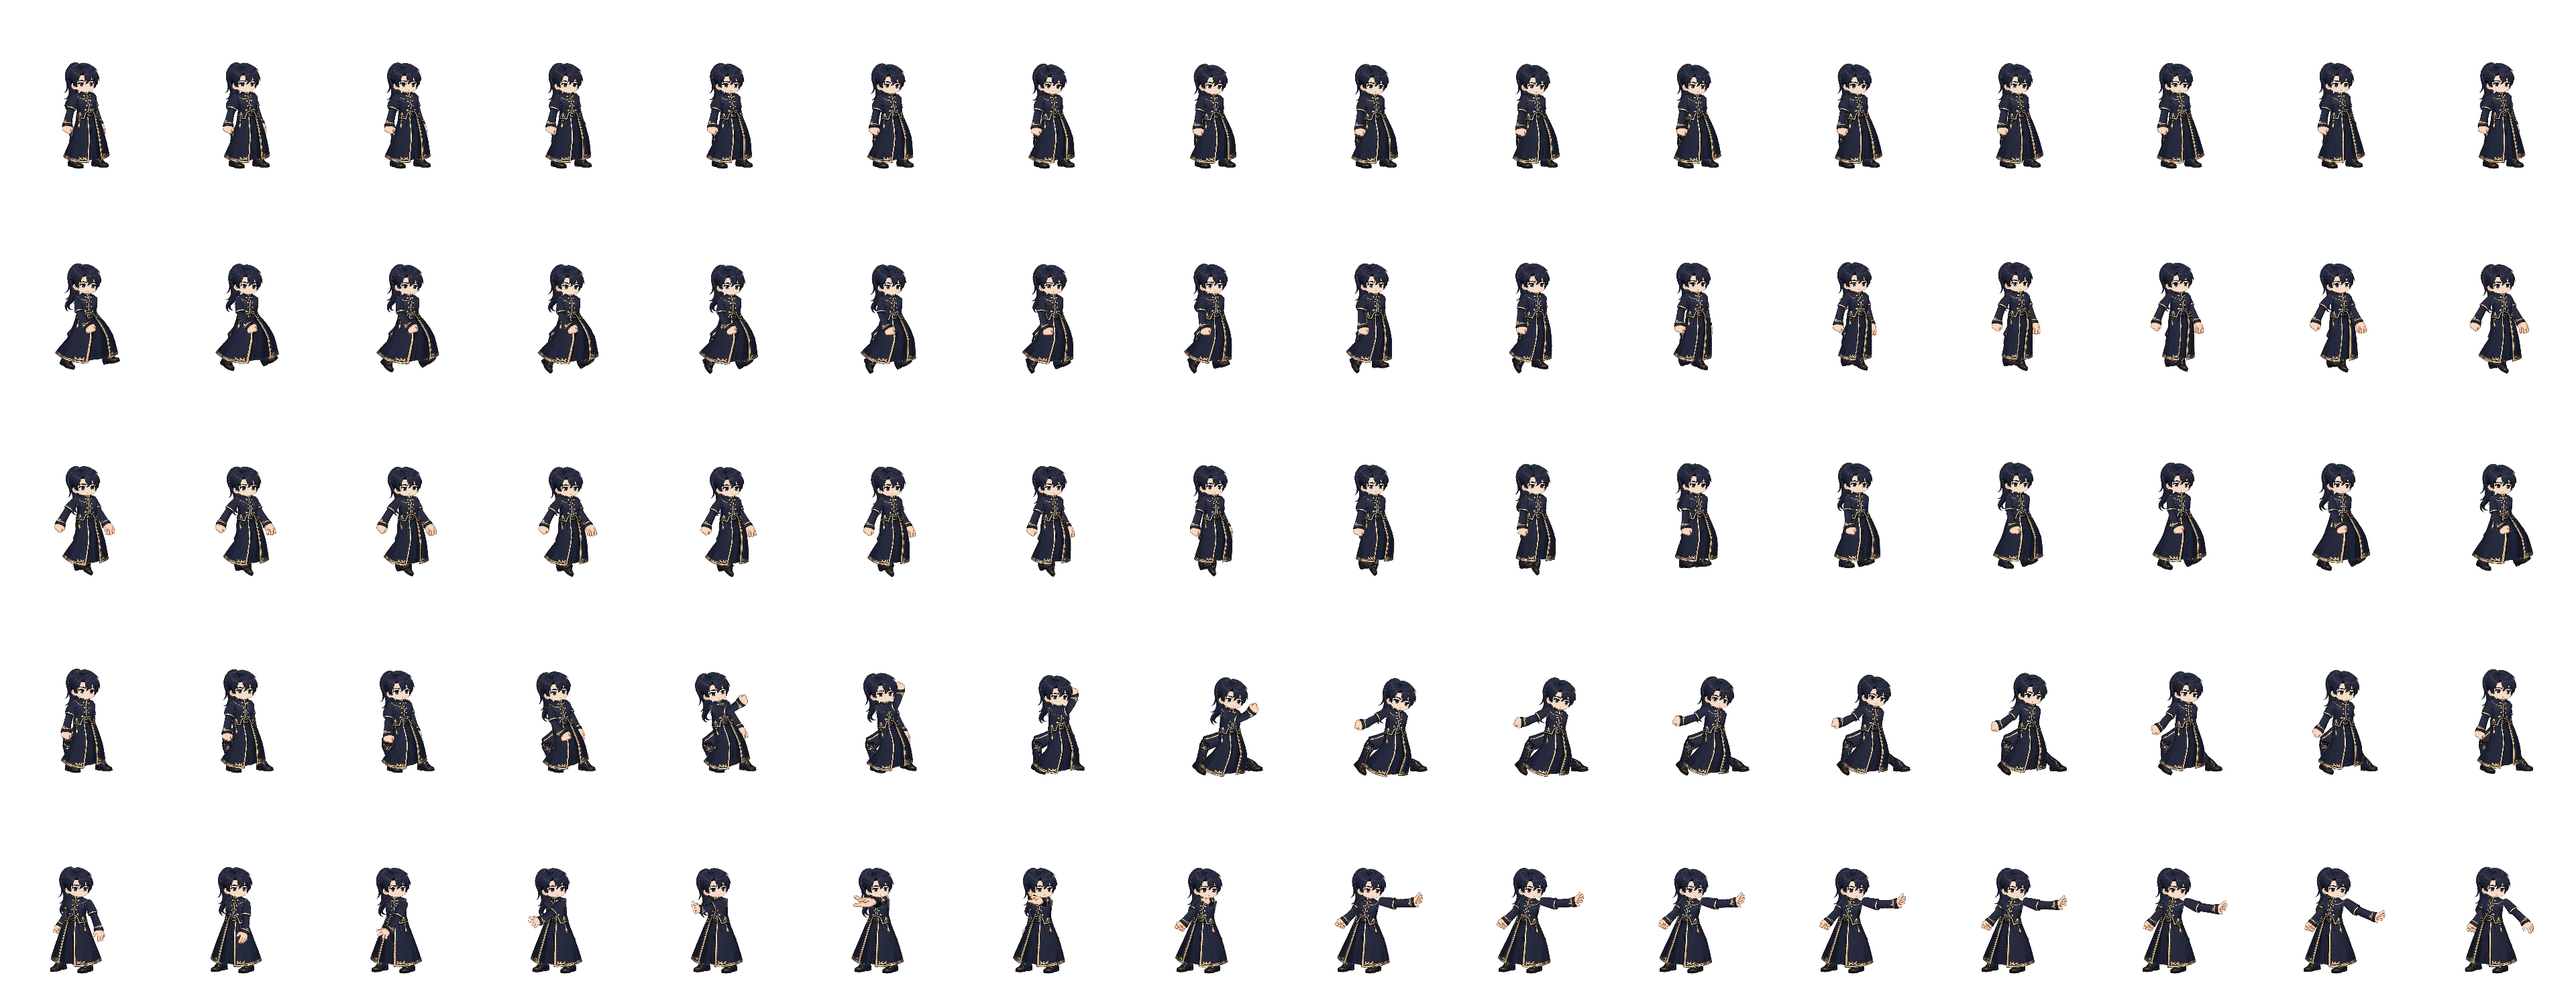
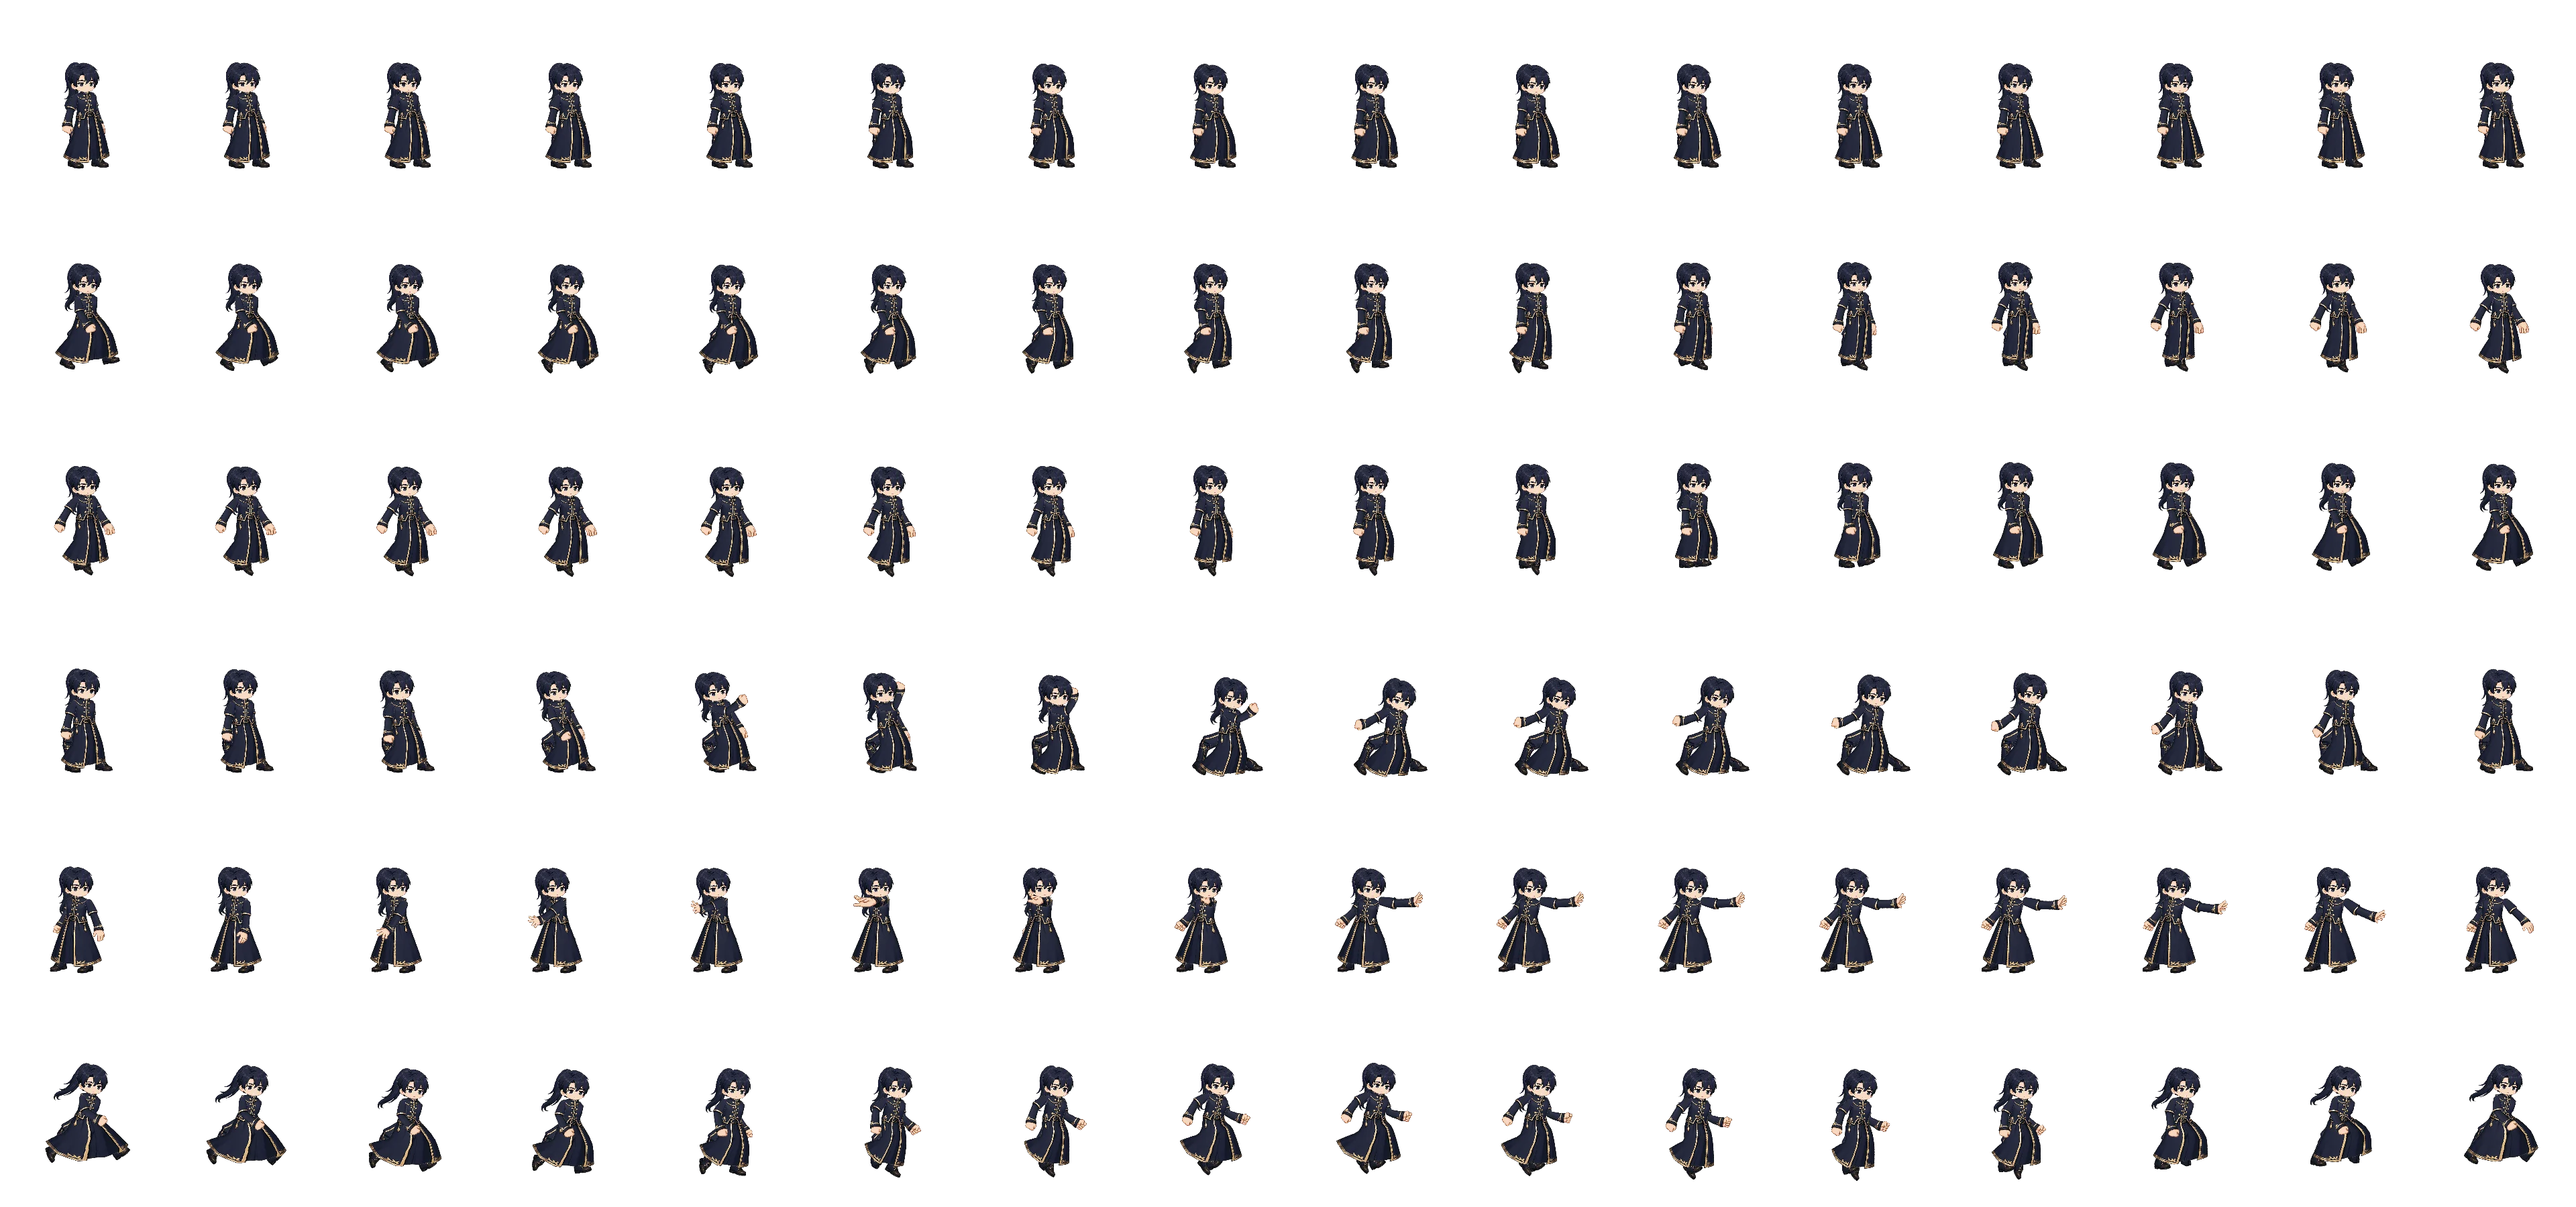
Nhân vật CHẠY thay vì đi lật đật, và nhịp bước bám theo tốc độ thật
Chủ dự án hỏi dáng đi nhìn gớm là do gói Spine hay do chưa tận dụng hết. Đo ra:
do chưa tận dụng hết. Bảng khung đi hoàn toàn lành — cả 32 khung đều khác khung
kề nó 4.198–7.047 điểm ảnh, không khung nào đứng im.

Lỗi là NHÂN VẬT DI CHUYỂN BẰNG TỐC ĐỘ CHẠY MÀ PHÁT HOẠT CẢNH ĐI:

  tốc độ thật                       252 px/giây
  sải chân 00_Walk trên màn          94 px mỗi vòng
  nhịp cần để chân không trượt      2,68 vòng/giây
  nhịp tác giả vẽ (00_Walk 0,800s)  1,25 vòng/giây → tải 118 px/giây
  nhịp game chạy (walkPh += dt*11)  1,74 vòng/giây → tải 165 px/giây

Tức game đã đẩy hoạt cảnh nhanh hơn tác giả vẽ 40% để bớt lệch — nên nó thành
dáng lật đật — mà vẫn còn 35% quãng đường là TRƯỢT CHÂN thuần tuý.

Gói có sẵn 00_Run (0,600s) chưa bao giờ nướng. Sải 158 px mỗi vòng, ở đúng nhịp
tác giả vẽ tải được 264 px/giây — lệch 4,5% so với 252 cần. Gần như khớp sẵn.

BA VIỆC:

1. Nướng 00_Run thành khối thứ năm. Đặt ở CUỐI chứ không chen vào giữa: bốn khối
   đầu giữ nguyên vị trí nên bảng đời cũ và đời mới cùng đọc được bằng một bộ
   mốc. Nướng lại cả 7 bộ, 80 → 96 khung: 3.239 KB → 3.894 KB (+20%).

2. Di chuyển ở tốc độ thường thì dùng khối CHẠY, khối ĐI để dành cho lúc bị làm
   chậm. Ngưỡng 150 px/giây nằm giữa hai mức mỗi hoạt cảnh tải được ở đúng nhịp
   tác giả vẽ (đi 118, chạy 264); tốc độ nền người chơi là 209.

3. Nhịp = quãng đường / sải chân, thay cho hằng số 11. Số 11 là con số dò tay cho
[…]

diff --git a/public/game/game.js b/public/game/game.js
@@ -9397,7 +9397,17 @@ function update(dt){
   }
   const ml = Math.hypot(mx,my);
   player.moving = ml > 0.01;
-  player.walkPh = (player.walkPh || 0) + dt * (player.moving ? 11 : 2.2);
+  // NHỊP BƯỚC THEO TỐC ĐỘ THẬT, không phải một hằng số.
+  // Số 11 cũ là con số dò tay cho hình vector đời trước, và mọi lớp mọi trạng thái dùng chung.
+  // Đo trên art thật: người chơi chạy 252 px/giây trong khi sải chân của khối ĐI chỉ tải được
+  // 1,74 vòng/giây × 94 px = 165 px/giây — tức 35% quãng đường là TRƯỢT CHÂN. Nhìn ra ngay.
+  // Nay nhịp = quãng đường / sải chân, nên nhanh chậm gì bàn chân cũng bám đất: bị làm chậm
+  // thì bước ngắn lại, có Cánh tăng tốc thì sải dài ra, không phải dò lại con số nào.
+  {
+    const _v = player.speed || 209;
+    const _sai = SAI_CHAN[_v >= CHAY_TU ? 'r' : 'w'];
+    player.walkPh = (player.walkPh || 0) + dt * (player.moving ? (_v / _sai) * Math.PI * 2 : 2.2);
+  }
   // ── QUÁN TÍNH PHỤ (secondary motion) ──
   // Trước đây áo choàng đọc thẳng tư thế tức thời nên nó DÍNH vào chân: dừng là dừng ngay,
   // đổi hướng là bật ngay, không có sức nặng. Hai con lò xo dưới đây chạy TRỄ sau chuyển
@@ -11736,7 +11746,16 @@ window.drawHeroLit = drawHeroLit;
 // Số khung: ĐO rồi mới chọn. Ở 12 khung đi, hai khung liền nhau lệch 25–50% pixel, trong khi vẽ
 // liên tục cùng khoảng thời gian đó chỉ lệch 0,7–5% — tức hoạt ảnh thô hơn 7–10 lần, và đó chính
 // là thứ mắt bắt được. 32 khung đưa bước nhảy về ngang mức vẽ thẳng.
-const HS_FRAMES = { i: 16, w: 32, a: 16, c: 16 };  // đứng · đi · đánh · tung chiêu
+const HS_FRAMES = { i: 16, w: 32, a: 16, c: 16, r: 16 };  // đứng · đi · đánh · tung chiêu · CHẠY
+// SẢI CHÂN mỗi VÒNG hoạt cảnh, tính bằng px TRÊN MÀN (nhân vật cao NV_CAO).
+// Đo trên chính bảng khung: lấy dải 10px sát đất của từng khung (= bàn chân), gom hết 32/16
+// khung rồi lấy khoảng x lớn nhất, nhân hệ số thu NV_CAO/CAO_THAN = 118/159.
+// Một VÒNG là HAI BƯỚC, nên quãng đường một vòng tải được = 2 × khoảng đó.
+const SAI_CHAN = { w: 94, r: 158 };
+// Trên ngưỡng này thì CHẠY. Dưới thì đi — dành cho lúc bị làm chậm.
+// 150 nằm giữa hai mức mà mỗi hoạt cảnh tải được ở đúng nhịp tác giả vẽ: đi 118 px/giây
+// (0,800 s một vòng), chạy 264 px/giây (0,600 s). Tốc độ nền của người chơi là 209.
+const CHAY_TU = 150;
 // CỬA SỔ LƠ LỬNG trong khối đi. Khối đi có 32 khung; khung khớp dáng bay nhất là 8/12 của hoạt
 // cảnh gốc, tức 8/12 × 32 ≈ 21. Lắc ±2 khung theo một nhịp chậm để nó còn thở, không đứng hình.
 const BAY_KHUNG = 21, BAY_LAC = 2;
@@ -11776,7 +11795,7 @@ function heroFramePose(kind, idx, act, sw){
   const sway = HS_SWAY[sw] || 0;
   const ps = kind === 'c' ? heroPose(0, false, 0, (idx + 0.5) / HS_FRAMES.c, 0, act, sway, sway)
            : kind === 'a' ? heroPose(0, false, (idx + 0.5) / HS_FRAMES.a, 0, 0, act, sway, sway)
-           : kind === 'w' ? heroPose((idx + 0.5) / HS_FRAMES.w * TAU, true, 0, 0, 0, act, sway, sway)
+           : (kind === 'w' || kind === 'r') ? heroPose((idx + 0.5) / HS_FRAMES[kind] * TAU, true, 0, 0, 0, act, sway, sway)
            : heroPose(0, false, 0, 0, (idx + 0.5) / HS_FRAMES.i * TAU * 620, act, sway, sway); // nhịp thở
   return ps;
 }
@@ -11841,7 +11860,7 @@ const NV_ICON_PX = 128;
 const NV_ICON_CAP = 80;
 const _nvIconCache = new Map();
 const NV_COT = 16, NV_OW = 240, NV_OH = 300;
-const NV_MOC = { i: 0, w: 16, a: 48, c: 64 };
+const NV_MOC = { i: 0, w: 16, a: 48, c: 64, r: 80 };
 // Thân dùng WEBP (bảng 3840x1500, nén còn ~36%), vũ khí dùng PNG — lớp vũ khí gần như trong
 // suốt hoàn toàn, mà PNG nén khoảng trong suốt giỏi hơn WEBP: đo được 69 KB PNG so với 124 KB.
 function nvTai(ten, duoi){
@@ -13687,13 +13706,20 @@ function drawPlayer(){
     // (Bản trước nướng thêm hẳn một khối '00_Squat' cho việc này — 16 khung × 8 bộ, 0,7 MB.
     //  Đo xong thì thừa: dáng cần đã nằm sẵn trong khối đi.)
     const _bay = bayK >= 0.5;
-    const _kind = castK > 0 ? 'c' : atkK > 0 ? 'a' : (_bay || p.moving) ? 'w' : 'i';
+    // Đang di chuyển ở tốc độ thường ⇒ khối CHẠY. Khối ĐI để dành cho lúc bị làm chậm.
+    // Bay thì vẫn đọc khối ĐI (BAY_KHUNG ghim vào một khung trong đó).
+    const _diBo = p.moving && !_bay;
+    const _kind = castK > 0 ? 'c' : atkK > 0 ? 'a'
+                : _bay ? 'w'
+                : _diBo ? ((p.speed || 209) >= CHAY_TU ? 'r' : 'w')
+                : 'i';
     const _n = HS_FRAMES[_kind];
     const _TAU = Math.PI * 2;
     const _idx = _kind === 'c' ? clamp((Math.min(1, castK) * _n) | 0, 0, _n - 1)
                : _kind === 'a' ? clamp((atkK * _n) | 0, 0, _n - 1)
-               : _kind === 'w' ? (_bay ? BAY_KHUNG + Math.round(Math.sin(now / 700) * BAY_LAC)
-                                       : ((((wph % _TAU) + _TAU) % _TAU) / _TAU * _n) | 0)
+               : (_kind === 'w' || _kind === 'r')
+                   ? (_bay ? BAY_KHUNG + Math.round(Math.sin(now / 700) * BAY_LAC)
+                           : ((((wph % _TAU) + _TAU) % _TAU) / _TAU * _n) | 0)
                : ((((now / 620) % _TAU) + _TAU) % _TAU) / _TAU * _n | 0;
     const _sw = (p.sway || 0) > 0.35 ? 2 : (p.sway || 0) < -0.35 ? 1 : 0;
     // Dark Wizard KHÔNG vung kiếm. Bản mẫu Spine có sẵn '05_MagicAttack' — nướng rồi, nằm ở

diff --git a/tools/spine/nuong_nv.py b/tools/spine/nuong_nv.py
@@ -22,7 +22,10 @@ from PIL import Image
 KHE_VK  = ('左手武器', '左手武器2b', '左手武器2c')   # vũ khí bị cắt 4 mảnh trên 3 khe
 KHE_HFX = ('爆炸特效', '爆炸特效(残影）')            # hiệu ứng nổ — game tự lo, không nướng
 KHE_TOC = ('背后头发',)                              # tóc sau, chỉ dùng lúc ĐO
-KHUNG   = [('00_Idle', 16), ('00_Walk', 32), ('08_SwordAttack', 16), ('05_MagicAttack', 16)]
+# Khối CHẠY đứng CUỐI, không chen vào giữa: bốn khối đầu giữ nguyên vị trí nên bảng khung
+# đời cũ và đời mới cùng đọc được bằng một bộ mốc — chỉ khối mới là phần thêm ra.
+KHUNG   = [('00_Idle', 16), ('00_Walk', 32), ('08_SwordAttack', 16), ('05_MagicAttack', 16),
+           ('00_Run', 16)]
 O_W, O_H, COT = 240, 300, 16
 CAO_THAN, GOT_Y = 159, 212     # đỉnh đầu y=53 → gót y=212, theo HERO_JOINT
 
